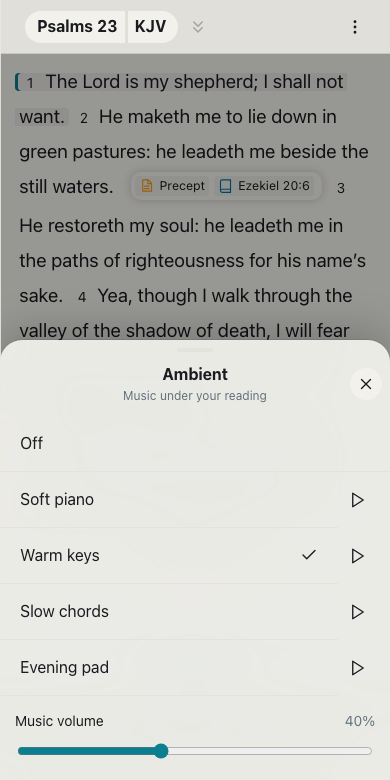
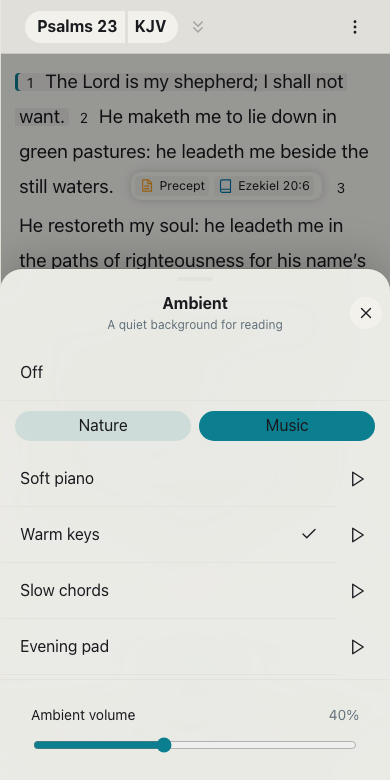
Document nature sound controls and target narrator credit links

diff --git a/app/e2e/recordings.spec.ts b/app/e2e/recordings.spec.ts
@@ -111,7 +111,7 @@ test("recording credits open with Telegram's link handler", async ({ page }) => 
   await setup(page);
   await page.route("**/api/recordings/catalog", (r) => r.fulfill({ json: { chapters: [{ readerId: "test", reader: "Test reader", source: narrator.source, license: narrator.license }] } }));
   await page.goto("/settings/credits#tgWebAppData=auth_date%3D1&tgWebAppPlatform=ios");
-  await page.getByRole("link", { name: "Recording source", exact: true }).click();
+  await page.locator('a[href="https://librivox.org/"]').click();
   await expect.poll(() => page.evaluate(() => (window as unknown as { __tg: { log: unknown[][] } }).__tg.log.some((r) => r[0] === "openLink" && r[1] === "https://librivox.org/"))).toBe(true);
 });
 
